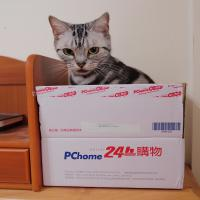
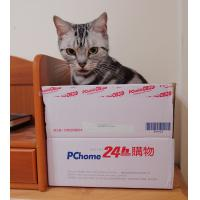
完成圖形加邊框

diff --git a/image.php b/image.php
@@ -55,7 +55,8 @@ if(!empty($_FILES['photo']['tmp_name'])){
 
     $white=imagecolorallocate($dst_img,255,255,255);
     imagefill($dst_img,0,0,$white);
-
+    
+    $red=imagecolorallocate($dst_img,255,0,0);
 }
 
 ?>
@@ -119,12 +120,67 @@ if(isset($src_img) && isset($dst_img)){
     echo "<img src='$dst_path'>";
     echo "</div>";
 }
+imagedestroy($dst_img);
 
 
 ?>
-
+<h3>圖形加邊框</h3>
+<hr>
 <!----圖形加邊框----->
+<?php
+$dst_img=imagecreatetruecolor(200,200);
+$dst_info['width']=200;
+$dst_info['height']=200;
 
+$border=5;
+$padding=10;
+if($src_info['direction']=='橫向'){
+    $bor_width=($dst_info['width']-$padding*2);
+    $bor_height=($dst_info['height']-$padding*2)*$src_info['rate'];
+    $dst_y=10+((($dst_info['height']-$padding*2)-$bor_height)/2);
+    $dst_x=10;
+}else{
+    $bor_width=($dst_info['width']-$padding*2)*(1/$src_info['rate']);
+    $bor_height=($dst_info['height']-$padding*2);
+    $dst_y=10;
+    $dst_x=10+((($dst_info['width']-$padding*2)-$bor_width)/2);
+    
+}
+
+//壓底層框線
+$img_bor=imagecreatetruecolor($bor_width,$bor_height);
+imagefill($dst_img,0,0,$red);
+imagefill($img_bor,0,0,$white);
+
+imagecopyresampled($dst_img,$img_bor,$dst_x,$dst_y,0,0,$bor_width,$bor_height,$bor_width,$bor_height);
+
+if($src_info['direction']=='橫向'){
+    $dst_height=($dst_info['height']-$padding*2-$border*2)*$src_info['rate'];
+    $dst_width=($dst_info['width']-$padding*2-$border*2);
+    $dst_y=($dst_info['height']-$dst_height)/2;
+    $dst_x=$padding+$border;
+    
+}else{
+    $dst_height=($dst_info['height']-$padding*2-$border*2);
+    $dst_width=($dst_info['width']-$padding*2-$border*2)*(1/$src_info['rate']);
+    $dst_y=$padding+$border;
+    $dst_x=($dst_info['width']-$dst_width)/2;
+    
+}
+imagecopyresampled($dst_img,$src_img,$dst_x,$dst_y,0,0,$dst_width,$dst_height,$src_info['width'],$src_info['height']);
+
+
+$dst_path="./dst/bor_".$_FILES['photo']['name'];
+imagejpeg($dst_img,$dst_path);
+
+echo "<div>";
+echo "<img src='$dst_path'>";
+echo "</div>";
+
+
+
+
+?>
 
 <!----產生圖形驗證碼----->
 
